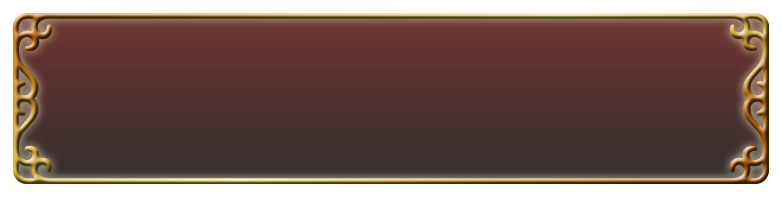
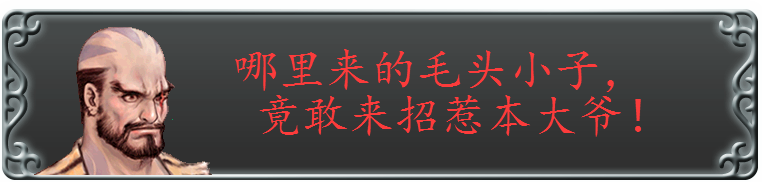
完成客栈对话功能

diff --git a/src/main/java/com/pal/map/InnMap.java b/src/main/java/com/pal/map/InnMap.java
@@ -9,6 +9,7 @@ import java.io.IOException;
 import javax.imageio.ImageIO;
 
 import com.pal.consts.Const;
+import com.pal.dialog.DialogPanel;
 import com.pal.listener.MapMouseListener;
 import com.pal.person.LXY;
 import com.pal.person.NH;
@@ -18,11 +19,6 @@ import com.pal.util.MouseUtil;
  * 客栈场景
  */
 public class InnMap extends Map {
-
-    /**
-     * 客栈地图的名称
-     */
-    private static final String MAP_NAME = Const.INN;
 
     /**
      * 客栈背景图
@@ -59,9 +55,11 @@ public class InnMap extends Map {
      */
     private static Image innHost;
 
+    private DialogPanel dialogPanel;
 
-    private Graphics graphics;
+    private MapMouseListener mapMouseListener;
 
+    private boolean drawDialog;
 
     static {
         try {
@@ -73,8 +71,10 @@ public class InnMap extends Map {
     }
 
     public InnMap() {
+        this.setName("inn");
         run();
-        this.addMouseListener(new MapMouseListener(this));
+        mapMouseListener = new MapMouseListener(this);
+        this.addMouseListener(mapMouseListener);
     }
 
     @Override
@@ -89,6 +89,9 @@ public class InnMap extends Map {
         //判断李逍遥是否靠近客栈
         Graphics2D g2d = (Graphics2D) g;
         isCloseToVillage = g2d.hit(new Rectangle(406, 374, 50, 50), new Polygon(xpoints, ypoints, xpoints.length), true);
+        if (drawDialog) {
+            dialogPanel.paint(g);
+        }
     }
 
     @Override
@@ -115,14 +118,22 @@ public class InnMap extends Map {
     }
 
     @Override
-    public void mousePressed(MouseEvent e) {
-        if (MouseUtil.judgeMouse(370, 430, 270, 370, xShift, yShift)) {
-            this.setCursor(new Cursor(Cursor.HAND_CURSOR));
-            //触发人物对话
-            triggerDialog();
-        } else {
-            this.setCursor(Cursor.getDefaultCursor());
+    public int mousePressed(MouseEvent e) {
+        System.out.println(e.getComponent().getName());
+        int x = e.getX() + xShift;
+        int y = e.getY() + yShift;
+        if (x >= 390 && x <= 436 && y >= 285 && y <= 365) {
+            triggerDialog(e);
         }
+        if (x >= 0 && x <= 782 && y >= 363 && y <= 461) {
+            if (drawDialog) {
+                int i = dialogPanel.mousePressed(e);
+                if (i==-1){
+                    drawDialog = false;
+                }
+            }
+        }
+        return 0;
     }
 
     public void run() {
@@ -135,26 +146,13 @@ public class InnMap extends Map {
                     //判断鼠标位置
                     judgeMouse();
                     try {
-						Thread.sleep(350);
-					} catch (InterruptedException e) {
-						// TODO Auto-generated catch block
-						e.printStackTrace();
-					}
+                        Thread.sleep(350);
+                    } catch (InterruptedException e) {
+                        e.printStackTrace();
+                    }
                 }
             }
         }).start();
-    }
-
-    /**
-     * 触发对话
-     */
-    private void triggerDialog() {
-        System.out.println("触发对话!");
-        //new DialogPanel().paint(graphics);
-        graphics.setColor(Color.red);
-        graphics.fillRect(100,100,200,200);
-        this.validate();
-        this.repaint();
     }
 
     public int getxShift() {
@@ -166,14 +164,30 @@ public class InnMap extends Map {
     }
 
     /**
+     * 触发对话
+     *
+     * @param e
+     */
+    private void triggerDialog(MouseEvent e) {
+        drawDialog = true;
+        dialogPanel = new DialogPanel();
+        dialogPanel.setName("dialog");
+        dialogPanel.addMouseListener(mapMouseListener);
+        dialogPanel.setFocusable(true);
+        this.validate();
+        this.repaint();
+    }
+
+    /**
      * 判断鼠标位置
      */
     private void judgeMouse() {
         if (MouseUtil.judgeMouse(700, 764, 400, 500, xShift, yShift)) {
-            System.out.println("judgeMouse: changeCursor");
             this.setCursor(new Cursor(Cursor.HAND_CURSOR));
         } else {
             this.setCursor(Cursor.getDefaultCursor());
         }
     }
+
+
 }

diff --git a/src/main/java/com/pal/dialog/DialogPanel.java b/src/main/java/com/pal/dialog/DialogPanel.java
@@ -1,8 +1,13 @@
 package com.pal.dialog;
 
+import com.pal.listener.MapMouseListener;
+import com.pal.map.Map;
+
 import javax.imageio.ImageIO;
 import javax.swing.*;
 import java.awt.*;
+import java.awt.event.KeyEvent;
+import java.awt.event.MouseEvent;
 import java.io.File;
 import java.io.IOException;
 
@@ -10,12 +15,12 @@ import java.io.IOException;
  * DialogPanel
  * Created by heqianqian on 2017/7/26.
  */
-public class DialogPanel {
+public class DialogPanel extends Map {
 
     private static final int IMG_W = 782;
     private static final int IMG_H = 198;
 
-    private static Image[] IMG_DIALOG = new Image[10];
+    private static Image[] IMG_DIALOG = new Image[3];
 
     private int imgIndex = 0;
 
@@ -23,21 +28,35 @@ public class DialogPanel {
         try {
             for (int i = 0; i < IMG_DIALOG.length; i++) {
                 //TODO
-                IMG_DIALOG[i] = ImageIO.read(new File("img\\对话框\\1.png"));
+                IMG_DIALOG[i] = ImageIO.read(new File("img\\对话框\\客栈\\" + i + ".png"));
             }
         } catch (IOException e) {
             e.printStackTrace();
         }
     }
 
-    //public DialogPanel() {
-    //    this.setSize(782, 198);
-    //    this.setLocation(0,363);
-    //}
+    public DialogPanel() {
+        this.setSize(782, 198);
+        this.setLocation(0, 363);
+    }
 
     public void paint(Graphics g) {
-        System.out.println("绘制对话框");
-        //绘制对话框
         g.drawImage(IMG_DIALOG[imgIndex], 0, 363, IMG_W, IMG_H, null);
+    }
+
+    @Override
+    public String keyPressed(KeyEvent e) {
+        //空格键监听
+        return null;
+    }
+
+    @Override
+    public int mousePressed(MouseEvent e) {
+        if (imgIndex + 1 > 2) {
+            return -1;
+        } else {
+            imgIndex++;
+        }
+        return 0;
     }
 }

diff --git a/src/main/java/com/pal/map/LJCMap.java b/src/main/java/com/pal/map/LJCMap.java
@@ -79,9 +79,6 @@ public class LJCMap extends Map {
             @Override
             public void run() {
                 while (true) {
-                    //TODO 除留取余
-                    //阿旺婶图片下标
-
                     try {
                         Thread.sleep(100);
                     } catch (InterruptedException e) {
@@ -117,8 +114,9 @@ public class LJCMap extends Map {
     }
 
     @Override
-    public void mousePressed(MouseEvent e) {
+    public int mousePressed(MouseEvent e) {
         //TODO
+        return 0;
     }
 
 }

diff --git a/src/main/java/com/pal/main/MainFrame.java b/src/main/java/com/pal/main/MainFrame.java
@@ -8,6 +8,7 @@ import com.pal.listener.MKeyListener;
 import com.pal.listener.MMouseListener;
 import com.pal.map.InnMap;
 import com.pal.map.LJCMap;
+import com.pal.map.Map;
 import com.pal.scene.MainMenu;
 import com.pal.scene.StartCartoon;
 
@@ -26,7 +27,7 @@ public class MainFrame extends JFrame {
     /**
      * 李家村场景
      */
-    private com.pal.map.Map currentMap = new LJCMap();
+    private Map currentMap = new LJCMap();
 
     /**
      * 主菜单

diff --git a/src/main/java/com/pal/listener/MapMouseListener.java b/src/main/java/com/pal/listener/MapMouseListener.java
@@ -13,13 +13,13 @@ public class MapMouseListener extends MouseAdapter {
 
     private Map map;
 
-
     public MapMouseListener(Map map) {
         this.map = map;
     }
 
     @Override
     public void mousePressed(MouseEvent e) {
+        System.out.println(e.getComponent().getName());
         map.mousePressed(e);
     }
 }

diff --git a/src/main/java/com/pal/util/MouseUtil.java b/src/main/java/com/pal/util/MouseUtil.java
@@ -24,7 +24,6 @@ public class MouseUtil {
         Point location = MouseInfo.getPointerInfo().getLocation();
         int x = location.x + xShift;
         int y = location.y + yShift;
-        System.out.println("x="+x+" y="+y);
         return (x >= startX && x <= endX && y >= startY && y <= endY);
     }
 }

diff --git a/src/main/java/com/pal/map/Map.java b/src/main/java/com/pal/map/Map.java
@@ -14,5 +14,5 @@ public abstract class Map extends JPanel {
      */
     public abstract String keyPressed(KeyEvent e);
 
-    public abstract void mousePressed(MouseEvent e);
+    public abstract int mousePressed(MouseEvent e);
 }
